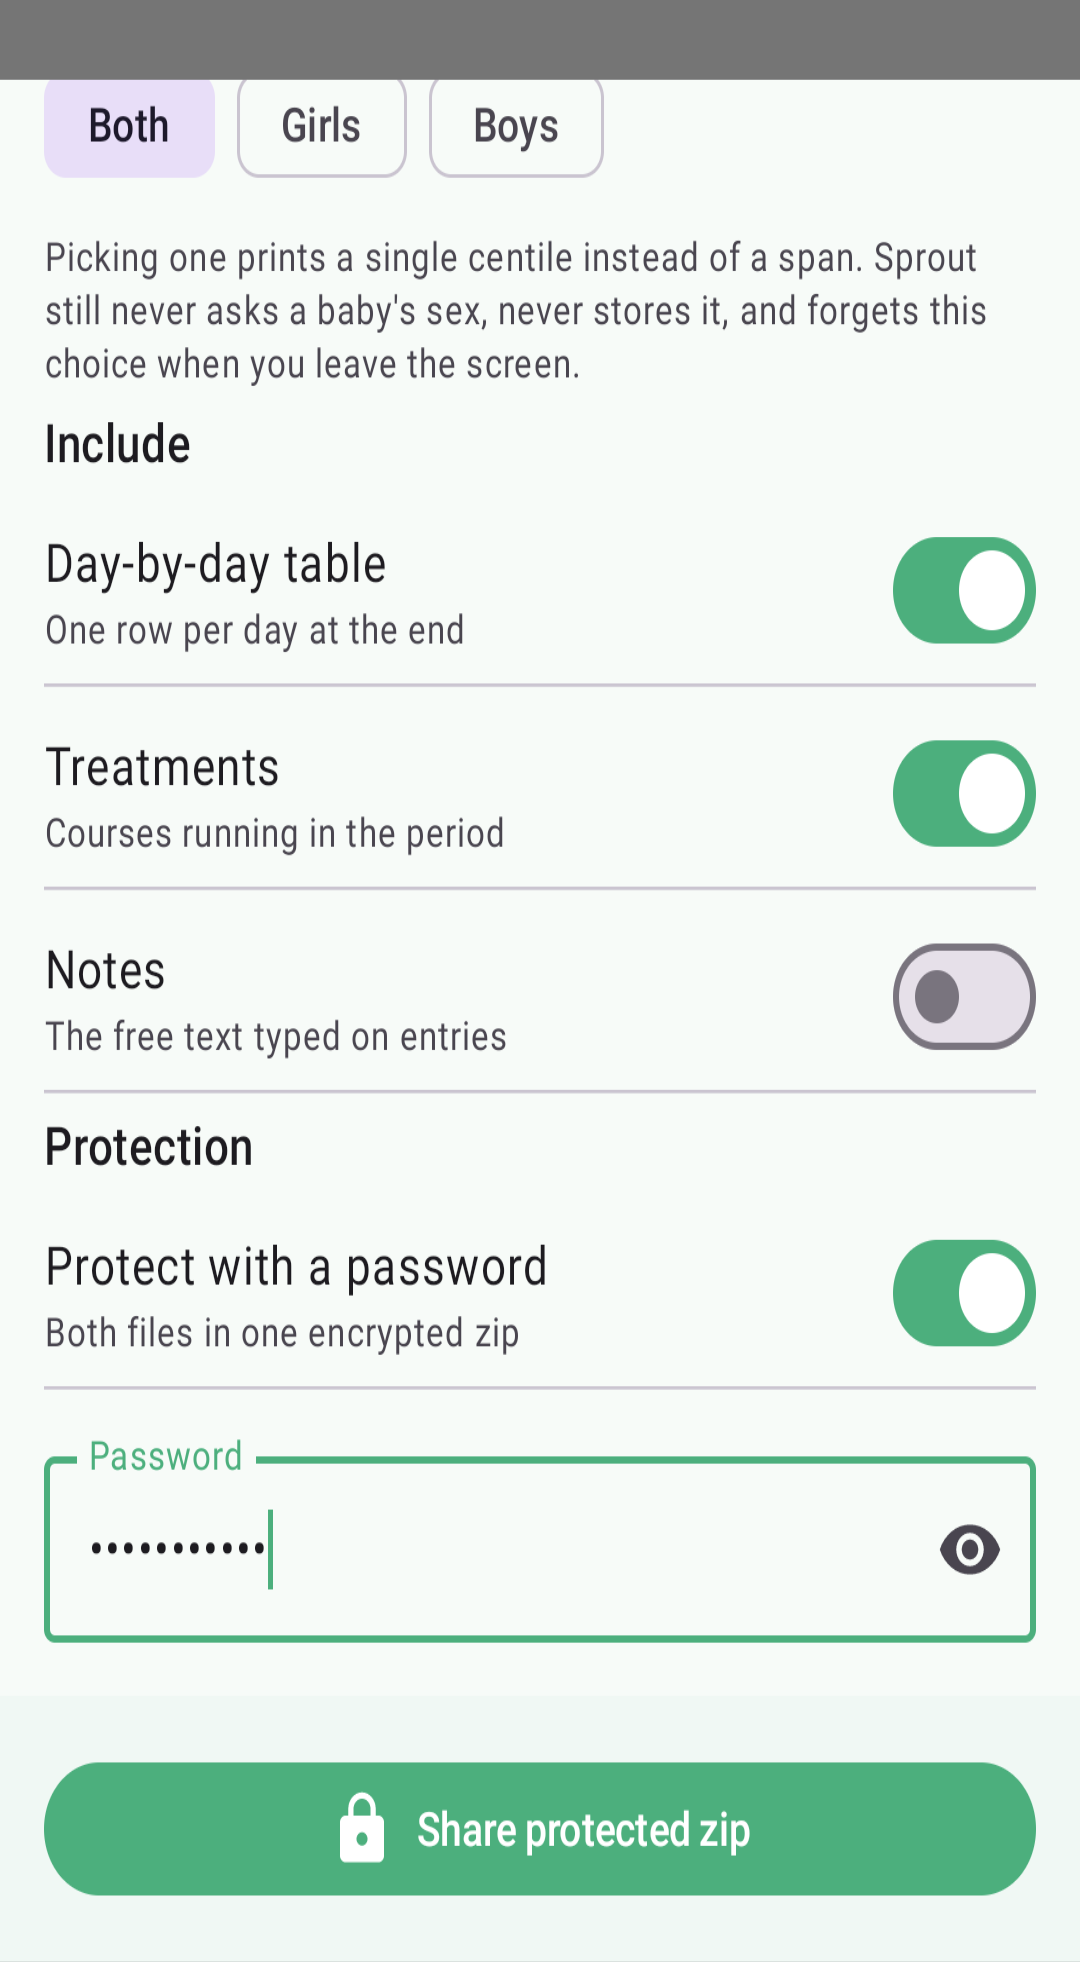
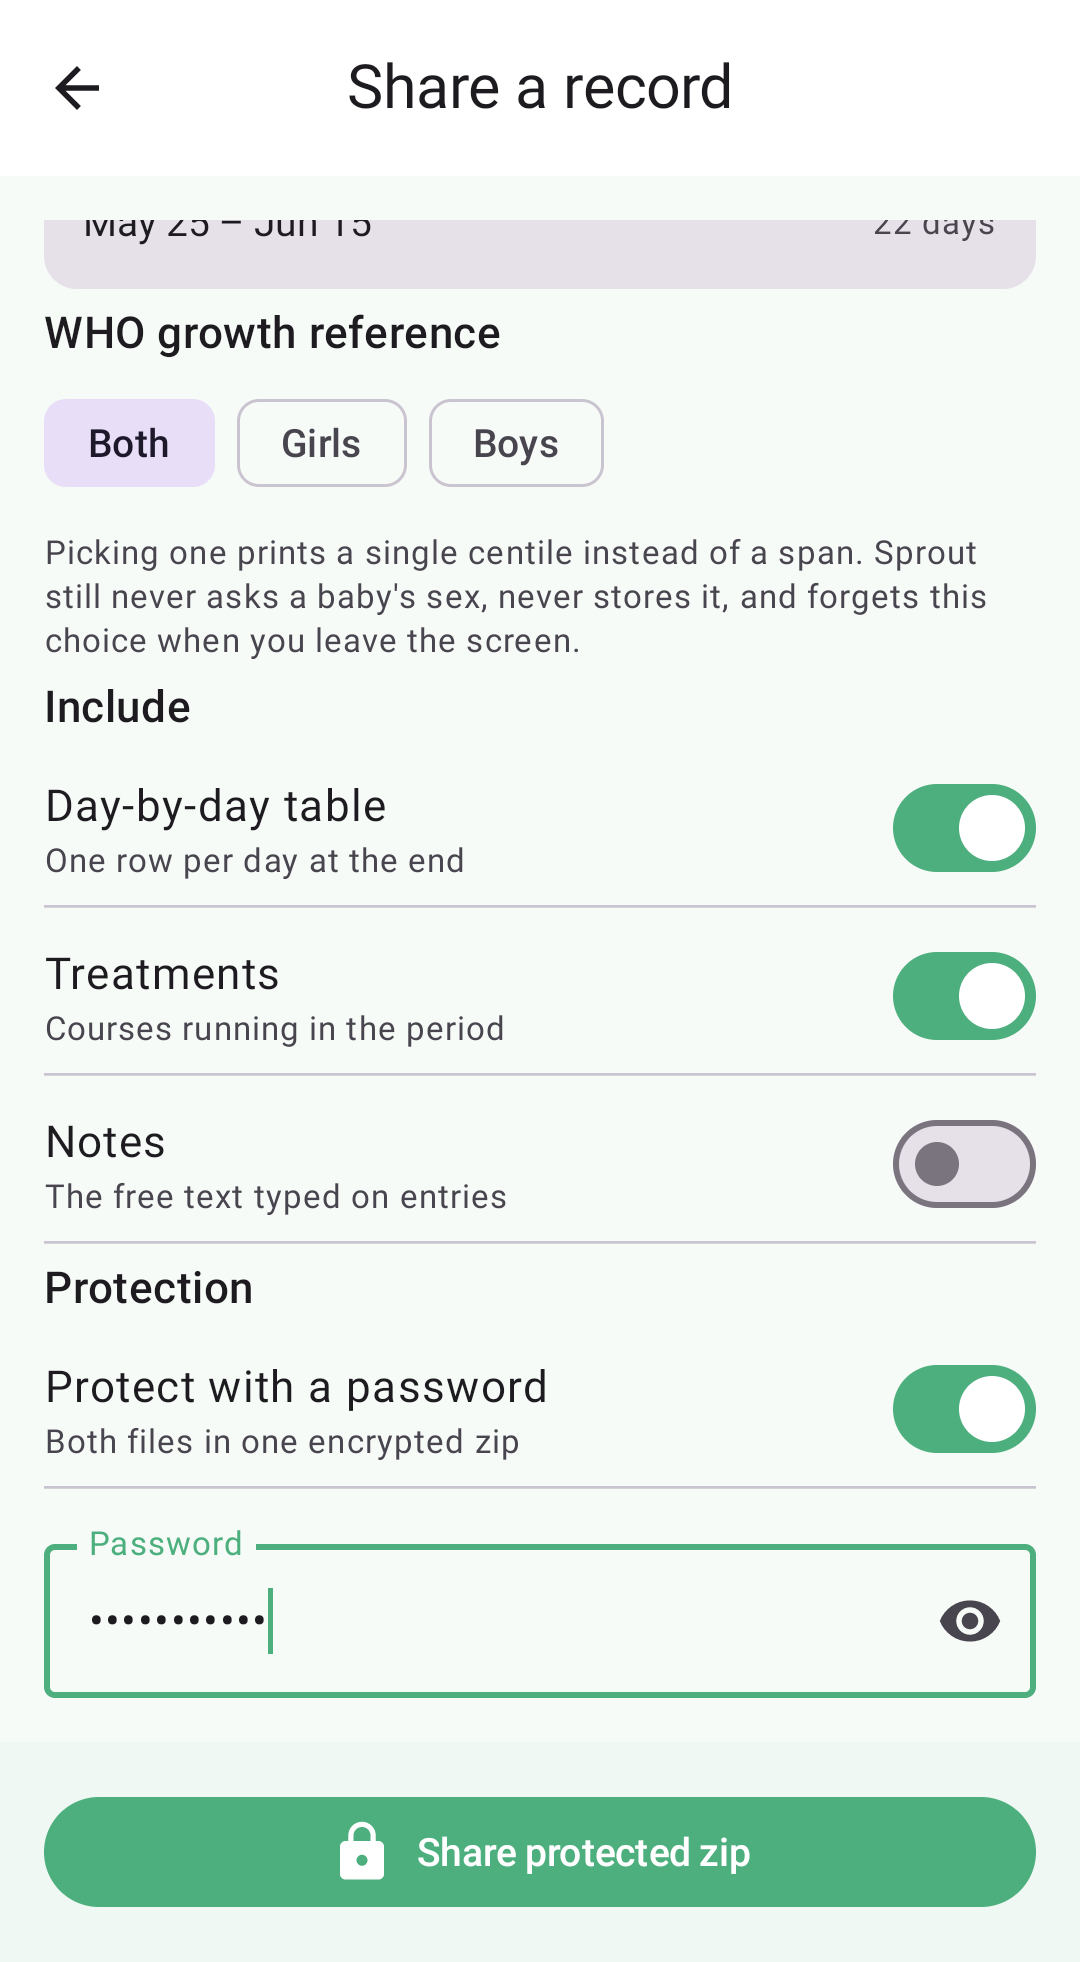
Put the doctor's record where a one-baby family can find it (#90)
The share action shipped in 1.10.0 lives on the baby's own tab, and a family
tracking a single child never opens that tab: the dashboard hides the Baby
entry when there is nothing to choose between, and renders the baby's pane in
place instead. So for most users the export had no entry point at all — the
feature was in the build and unreachable.

It moves onto BabyPane, which is the one thing both arrangements render: a
full-width "Share a record" button under the day's totals, beside "See the
statistics". The top-bar icon on BabyScreen goes with it, so there is one way
in per screen rather than two on the tab half the families never see, and
SproutTopBar loses the `actions` slot that existed only for it.

BDR-12 is unchanged — the export still starts from the baby's own page, with
that baby already chosen, and there is still no menu on the wrong name to
export the wrong child from.

The screenshot suite missed this because it seeds twins, so it only ever
photographed the household arrangement. It now archives the twin at the very
end and captures the one-baby dashboard scrolled to the foot of the pane.

diff --git a/app/src/main/java/com/gproust/sprout/ui/baby/BabyScreen.kt b/app/src/main/java/com/gproust/sprout/ui/baby/BabyScreen.kt
@@ -7,10 +7,6 @@ import androidx.compose.foundation.layout.height
 import androidx.compose.foundation.layout.padding
 import androidx.compose.foundation.rememberScrollState
 import androidx.compose.foundation.verticalScroll
-import androidx.compose.material.icons.Icons
-import androidx.compose.material.icons.filled.Share
-import androidx.compose.material3.Icon
-import androidx.compose.material3.IconButton
 import androidx.compose.material3.MaterialTheme
 import androidx.compose.material3.Scaffold
 import androidx.compose.material3.Text
@@ -73,23 +69,7 @@ fun BabyScreen(
 
     Scaffold(
         topBar = {
-            SproutTopBar(
-                summary?.baby?.name ?: stringResource(R.string.nav_baby),
-                actions = {
-                    // Sharing starts here rather than on the Statistics screen,
-                    // so the baby whose record it is has already been chosen by
-                    // the page it was started from — there is no menu left on
-                    // the wrong name to export the wrong child.
-                    summary?.let { chosen ->
-                        IconButton(onClick = { onShareRecord(chosen.baby.id) }) {
-                            Icon(
-                                Icons.Filled.Share,
-                                contentDescription = stringResource(R.string.report_screen_title),
-                            )
-                        }
-                    }
-                },
-            )
+            SproutTopBar(summary?.baby?.name ?: stringResource(R.string.nav_baby))
         },
     ) { padding ->
         if (summary == null) {
@@ -113,6 +93,7 @@ fun BabyScreen(
                 now = now,
                 onFeed = onQuickFeed,
                 onNavigate = onNavigate,
+                onShareRecord = { onShareRecord(summary.baby.id) },
                 header = {
                     Text(
                         babyAge(context, summary.baby.birthDate, now),

diff --git a/app/src/main/java/com/gproust/sprout/ui/home/BabyPane.kt b/app/src/main/java/com/gproust/sprout/ui/home/BabyPane.kt
@@ -20,6 +20,7 @@ import androidx.compose.material.icons.filled.Favorite
 import androidx.compose.material.icons.filled.LocalDrink
 import androidx.compose.material.icons.filled.Medication
 import androidx.compose.material.icons.filled.Monitor
+import androidx.compose.material.icons.filled.Share
 import androidx.compose.material.icons.filled.TrendingUp
 import androidx.compose.material.icons.filled.WaterDrop
 import androidx.compose.material3.Button
@@ -67,6 +68,7 @@ fun BabyPane(
     onNavigate: (String) -> Unit,
     modifier: Modifier = Modifier,
     header: (@Composable () -> Unit)? = null,
+    onShareRecord: (() -> Unit)? = null,
 ) {
     Column(modifier) {
         if (header != null) {
@@ -98,6 +100,24 @@ fun BabyPane(
                 stringResource(R.string.home_see_stats),
                 modifier = Modifier.padding(start = 8.dp),
             )
+        }
+
+        // The way out to the doctor's record lives here rather than on a top
+        // bar, because this pane is the one thing both arrangements have: a
+        // family with one baby never opens the baby's own tab (BDR-9), and an
+        // action offered only there is an action half the users cannot reach.
+        if (onShareRecord != null) {
+            Spacer(Modifier.height(8.dp))
+            OutlinedButton(
+                onClick = onShareRecord,
+                modifier = Modifier.fillMaxWidth(),
+            ) {
+                Icon(Icons.Filled.Share, contentDescription = null)
+                Text(
+                    stringResource(R.string.report_screen_title),
+                    modifier = Modifier.padding(start = 8.dp),
+                )
+            }
         }
     }
 }

diff --git a/app/src/androidTest/java/com/gproust/sprout/ScreenshotTest.kt b/app/src/androidTest/java/com/gproust/sprout/ScreenshotTest.kt
@@ -102,6 +102,9 @@ class ScreenshotTest {
     /** Set in [seed] so captures can reference the first baby (e.g. its reminder override). */
     private var leaId = 0L
 
+    /** Set in [seed] so the last capture can archive the twin and shoot a one-baby home. */
+    private var noahId = 0L
+
     private fun seed() = runBlocking {
         val repo = app.repository
         val now = System.currentTimeMillis()
@@ -111,7 +114,7 @@ class ScreenshotTest {
         // Twins, to show the baby switcher and the babies manager.
         val lea = repo.addBaby("Léa", now - 21 * day)
         leaId = lea
-        repo.addBaby("Noah", now - 21 * day)
+        noahId = repo.addBaby("Noah", now - 21 * day)
         repo.saveParentProfile(
             ParentProfileEntity(
                 1L,
@@ -596,5 +599,17 @@ class ScreenshotTest {
         tap("Protect with a password")
         type("clinic-2026")
         save("15-report-3-protected")
+
+        // Last, because it changes the data every other capture was taken
+        // from: the same dashboard for a family with one baby, which is most
+        // of them. There are no cards to choose between, so the baby's own
+        // pane is shown in place — and this is the arrangement that has to
+        // carry the way out to the doctor's record, because a family with one
+        // baby has no baby tab to find it on. Scrolled to the foot of the
+        // pane, where that button and "See the statistics" sit.
+        runBlocking { app.repository.archiveBaby(noahId) }
+        show { HomeScreen(onNavigate = {}, onQuickFeed = {}) }
+        scrollTo("Share a record")
+        save("04-home-2-one-baby")
     }
 }

diff --git a/app/src/main/java/com/gproust/sprout/ui/common/Components.kt b/app/src/main/java/com/gproust/sprout/ui/common/Components.kt
@@ -10,7 +10,6 @@ import androidx.compose.foundation.layout.ColumnScope
 import androidx.compose.foundation.layout.ExperimentalLayoutApi
 import androidx.compose.foundation.layout.FlowRow
 import androidx.compose.foundation.layout.Row
-import androidx.compose.foundation.layout.RowScope
 import androidx.compose.foundation.layout.fillMaxWidth
 import androidx.compose.foundation.layout.imePadding
 import androidx.compose.foundation.layout.padding
@@ -70,7 +69,6 @@ import java.time.ZoneOffset
 fun SproutTopBar(
     title: String,
     onBack: (() -> Unit)? = null,
-    actions: @Composable RowScope.() -> Unit = {},
 ) {
     CenterAlignedTopAppBar(
         title = { Text(title) },
@@ -84,7 +82,6 @@ fun SproutTopBar(
                 }
             }
         },
-        actions = actions,
     )
 }
 

diff --git a/app/src/main/java/com/gproust/sprout/ui/home/HomeScreen.kt b/app/src/main/java/com/gproust/sprout/ui/home/HomeScreen.kt
@@ -191,6 +191,7 @@ class HomeViewModel(
 fun HomeScreen(
     onNavigate: (String) -> Unit,
     onQuickFeed: (BreastSide) -> Unit,
+    onShareRecord: (Long) -> Unit = {},
 ) {
     val vm: HomeViewModel = viewModel(factory = rememberSproutViewModelFactory())
     val state by vm.uiState.collectAsState()
@@ -269,6 +270,7 @@ fun HomeScreen(
                     now = now,
                     onFeed = { side -> withBaby(single.baby.id) { onQuickFeed(side) } },
                     onNavigate = onNavigate,
+                    onShareRecord = { onShareRecord(single.baby.id) },
                     header = {
                         Text(
                             single.baby.name,

diff --git a/app/src/main/java/com/gproust/sprout/ui/navigation/SproutNavigation.kt b/app/src/main/java/com/gproust/sprout/ui/navigation/SproutNavigation.kt
@@ -311,6 +311,7 @@ private fun MainScaffold(
                 HomeScreen(
                     onNavigate = { route -> navController.navigateToKnown(route) },
                     onQuickFeed = { side -> openNursing(side) },
+                    onShareRecord = { babyId -> navController.navigate(Routes.report(babyId)) },
                 )
             }
             composable(Routes.BABY) {

diff --git a/CHANGELOG.md b/CHANGELOG.md
@@ -3,6 +3,15 @@
 All notable changes to Sprout are documented here. This project follows
 [Semantic Versioning](https://semver.org/) for `versionName`.
 
+## [Unreleased]
+
+- 🩺 **The doctor's record is reachable again if you track one baby.** The share
+  action shipped in 1.10.0 sat on the baby's own tab — which a family with a
+  single child never sees, because with nothing to choose between, the dashboard
+  *is* that page. It has moved onto the page itself, under the totals beside
+  "See the statistics", so it is in the same place whether you are tracking one
+  baby or three.
+
 ## [1.10.0] — 2026-09-08
 
 - 🩺 **A record you can hand to a doctor.** The share button on your baby's page
